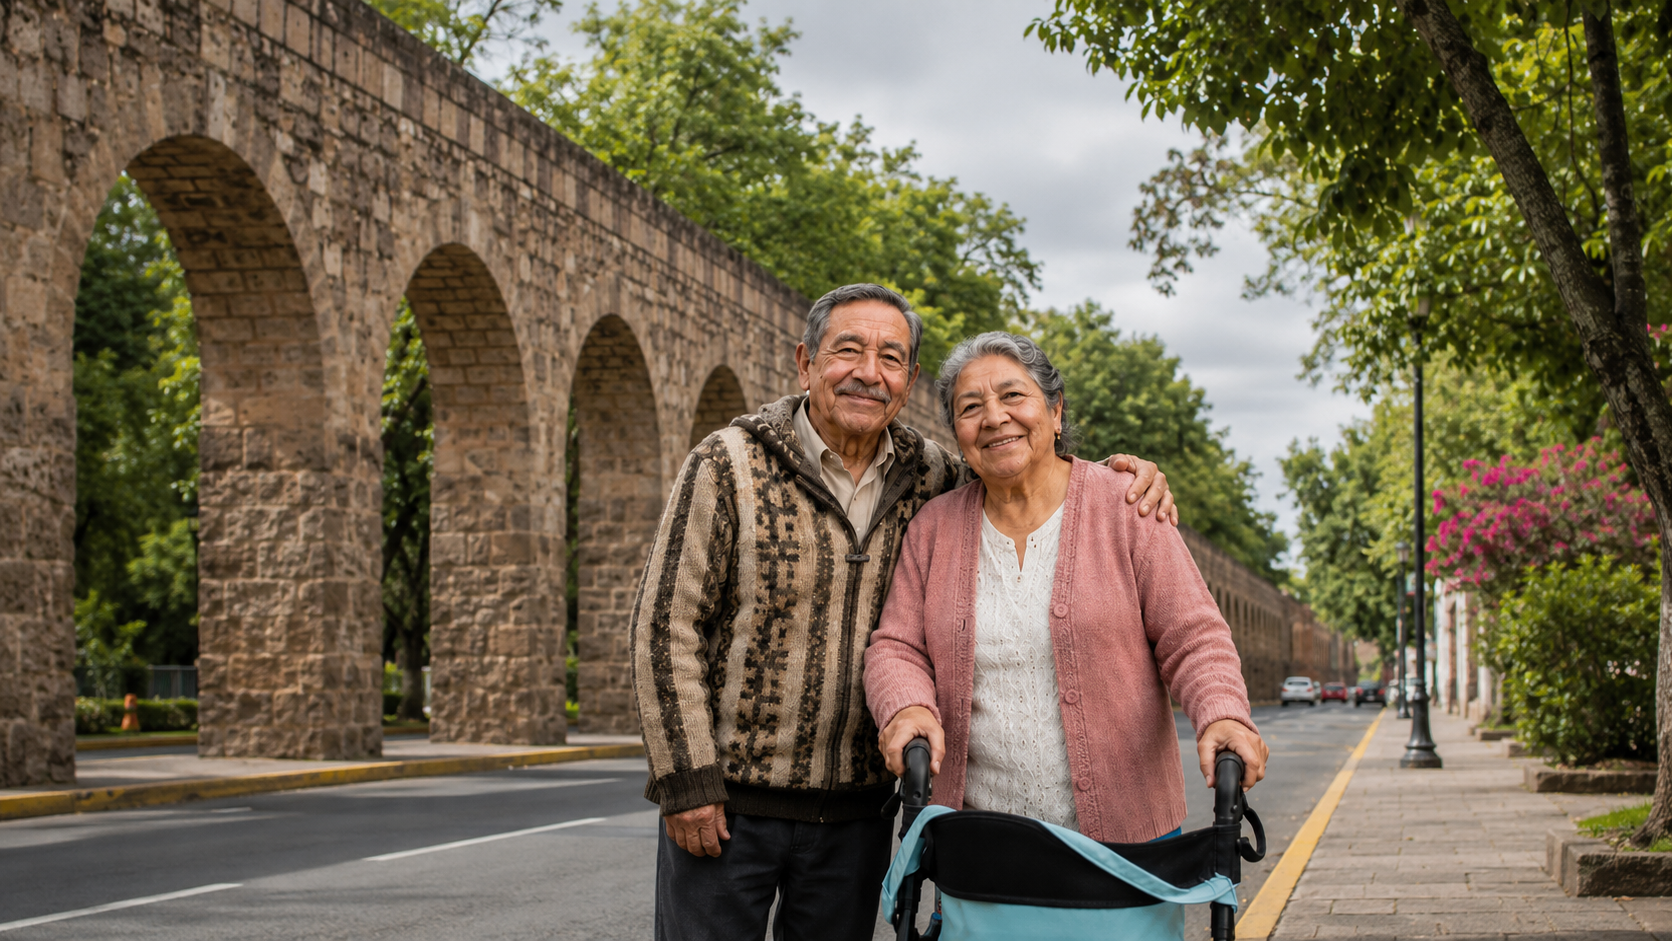
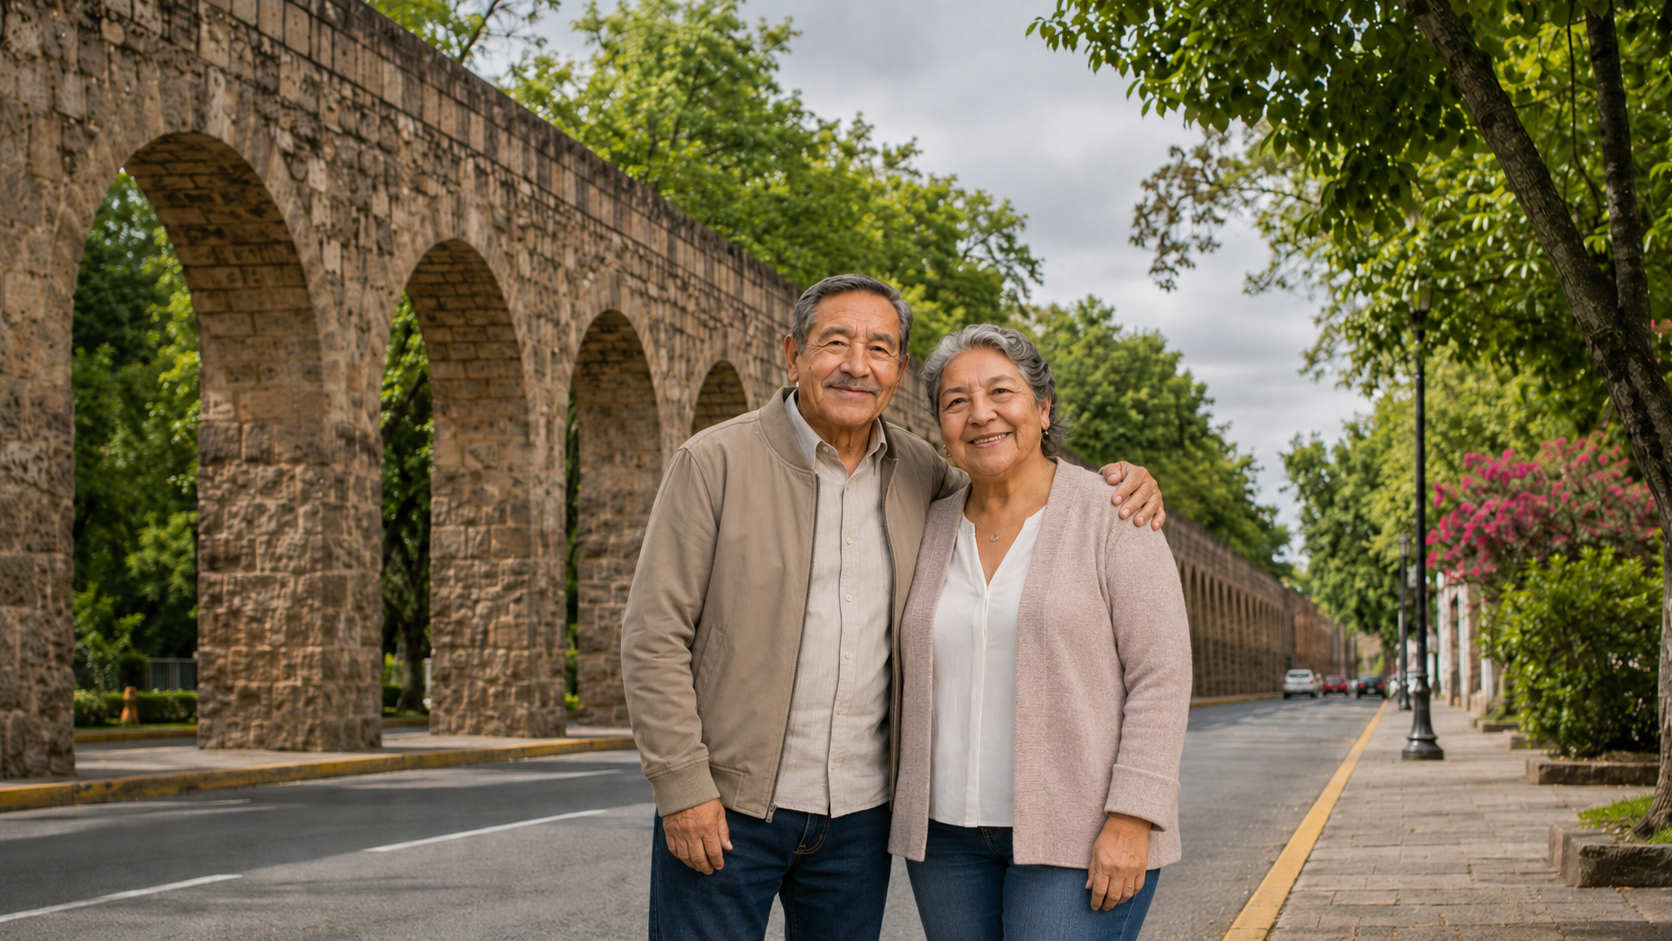
feat: adjust overlay opacity in HeroSection component

diff --git a/src/app/components/HeroSection.tsx b/src/app/components/HeroSection.tsx
@@ -4,7 +4,7 @@ export function HeroSection() {
   return (
     <section id="inicio" className="relative w-full min-h-screen overflow-hidden">
       <img src="/images/hero/hero-bg.jpg" alt="Adultos mayores" className="absolute inset-0 w-full h-full object-cover" />
-      <div className="absolute inset-0 bg-black/40" />
+      <div className="absolute inset-0 bg-black/20" />
 
       <div className="relative z-10 flex flex-col items-center justify-center min-h-screen px-6 text-center text-white sr" data-sr-delay="0">
         <h1 className="font-['Inter'] text-4xl md:text-6xl lg:text-7xl leading-tight max-w-5xl">
